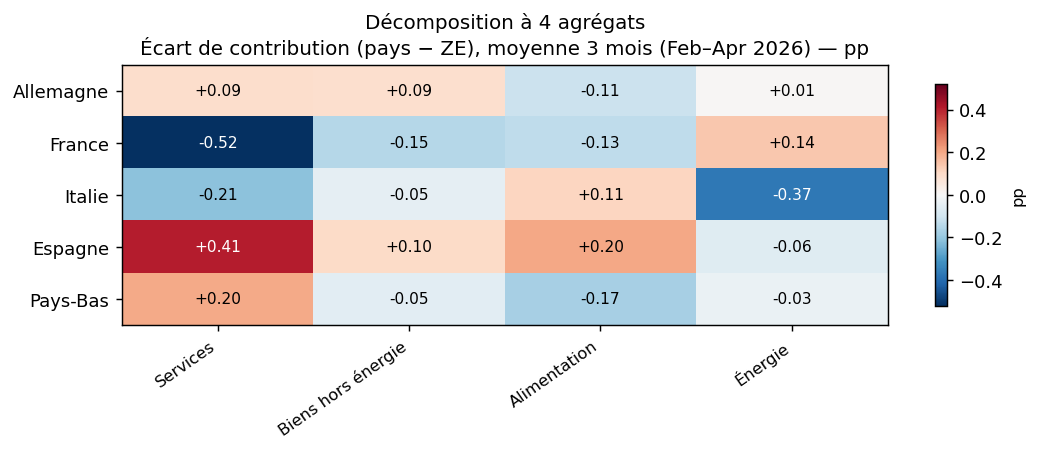
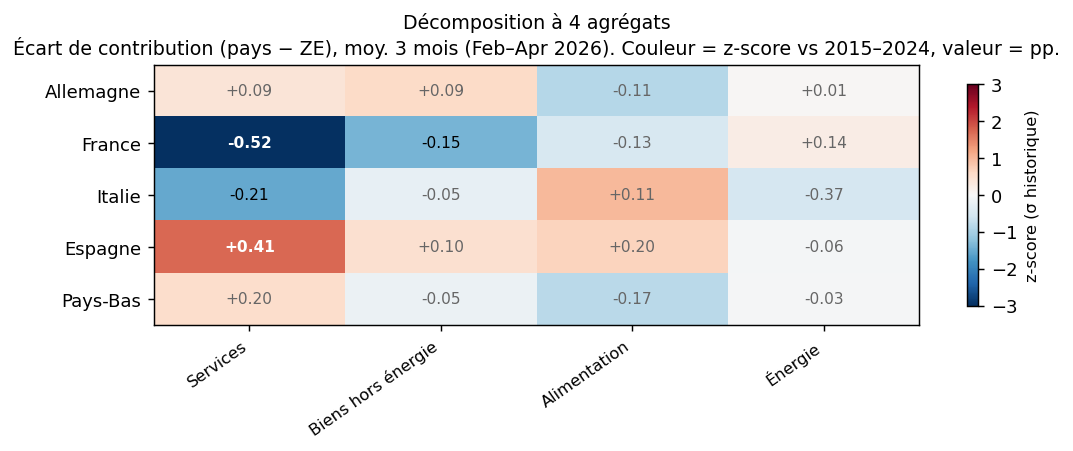
Add z-score coloring to heatmaps (vs 2015-2024 reference)

diff --git a/plot_country_vs_ea.py b/plot_country_vs_ea.py
@@ -79,47 +79,68 @@ def gap(geo: str, cols: list[str]) -> pd.DataFrame:
 # ============================================================
 # 1) HEATMAP au dernier point — 4 agrégats puis 13 divisions
 # ============================================================
+REF_START, REF_END = "2015-01-01", "2024-12-31"  # 10 ans, inclut volatilité COVID
+
+
 def make_heatmap(cols, labels_dict, title, outpath, figwidth, ma_months=3):
-    rows = []
+    """
+    Heatmap colorée par z-score (vs 2015-2019), annotée valeur brute en pp.
+    Cellules à |z|<1 : grisées (banal). |z|>2 : couleur saturée (inhabituel).
+    """
+    raw_rows, z_rows = [], []
     for g in GEOS_NON_EA:
-        gap_g = gap(g, cols).rolling(ma_months).mean().iloc[-1]
-        rows.append(gap_g.rename(g))
-    H = pd.DataFrame(rows)
-    H = H[cols]
+        gap_ts = gap(g, cols).rolling(ma_months).mean()
+        # Référence : écart-type historique du même écart pays-ZE
+        ref = gap_ts.loc[REF_START:REF_END]
+        sigma = ref.std()
+        current = gap_ts.iloc[-1]
+        z = current / sigma
+        raw_rows.append(current.rename(g))
+        z_rows.append(z.rename(g))
+    H = pd.DataFrame(raw_rows)[cols]
+    Z = pd.DataFrame(z_rows)[cols]
 
     fig, ax = plt.subplots(figsize=(figwidth, 3.6))
-    vmax = max(abs(H.values.min()), abs(H.values.max()))
-    im = ax.imshow(H.values, cmap="RdBu_r", vmin=-vmax, vmax=vmax, aspect="auto")
+    vmax = max(3.0, min(6.0, np.nanpercentile(np.abs(Z.values), 95)))
+    im = ax.imshow(Z.values, cmap="RdBu_r", vmin=-vmax, vmax=vmax, aspect="auto")
     ax.set_xticks(range(len(cols)))
     ax.set_xticklabels([labels_dict[c] for c in cols], rotation=35, ha="right", fontsize=9)
     ax.set_yticks(range(len(GEOS_NON_EA)))
     ax.set_yticklabels([NAMES[g] for g in GEOS_NON_EA], fontsize=10)
 
-    for i in range(H.shape[0]):
-        for j in range(H.shape[1]):
-            v = H.values[i, j]
-            color = "white" if abs(v) > vmax * 0.55 else "black"
-            ax.text(j, i, f"{v:+.2f}", ha="center", va="center",
-                    color=color, fontsize=8.5)
+    for i in range(Z.shape[0]):
+        for j in range(Z.shape[1]):
+            v_raw = H.values[i, j]
+            v_z = Z.values[i, j]
+            if abs(v_z) < 1:
+                color, weight = "#666", "normal"
+            elif abs(v_z) > vmax * 0.55:
+                color, weight = "white", "bold"
+            else:
+                color, weight = "black", "bold" if abs(v_z) > 2 else "normal"
+            ax.text(j, i, f"{v_raw:+.2f}", ha="center", va="center",
+                    color=color, fontsize=8.5, weight=weight)
 
     end = ribe("EA", cols).index[-1]
     start = end - pd.DateOffset(months=ma_months - 1)
     period = f"{start.strftime('%b')}–{end.strftime('%b %Y')}"
-    ax.set_title(f"{title}\nÉcart de contribution (pays − ZE), moyenne {ma_months} mois ({period}) — pp",
-                 fontsize=11)
+    ax.set_title(
+        f"{title}\nÉcart de contribution (pays − ZE), moy. {ma_months} mois ({period}). "
+        f"Couleur = z-score vs {REF_START[:4]}–{REF_END[:4]}, valeur = pp.",
+        fontsize=10.5)
     cbar = plt.colorbar(im, ax=ax, shrink=0.85)
-    cbar.set_label("pp", fontsize=9)
+    cbar.set_label("z-score (σ historique)", fontsize=9)
     fig.tight_layout()
     fig.savefig(outpath, dpi=130, bbox_inches="tight")
     plt.close(fig)
-    print(f"OK → {outpath}")
-    return H
+    print(f"OK → {outpath}  (vmax z = {vmax:.1f}σ)")
+    return H, Z
 
 
-H4 = make_heatmap(AGG4, AGG4_LBL, "Décomposition à 4 agrégats",
-                  ROOT / "data" / "heatmap_gap_4agg.png", 8.5)
-H13 = make_heatmap(DIV13, DIV13_LBL, "Décomposition à 13 divisions COICOP",
-                   ROOT / "data" / "heatmap_gap_13div.png", 13)
+H4, Z4 = make_heatmap(AGG4, AGG4_LBL, "Décomposition à 4 agrégats",
+                      ROOT / "data" / "heatmap_gap_4agg.png", 8.5)
+H13, Z13 = make_heatmap(DIV13, DIV13_LBL, "Décomposition à 13 divisions COICOP",
+                        ROOT / "data" / "heatmap_gap_13div.png", 13)
 
 # ============================================================
 # 2) STACKED BAR de l'écart, mensuel 2023+
@@ -175,8 +196,9 @@ plt.close(fig)
 print(f"OK → {out}")
 
 # Top 3 du dernier point par pays — résumé console
-print("\n=== Top 3 écarts (pp, dernier point) — décompo 4 agrégats ===")
+print(f"\n=== Top 3 écarts les + INHABITUELS (z-score vs {REF_START[:4]}-{REF_END[:4]}) — 13 div ===")
 for g in GEOS_NON_EA:
-    row = H4.loc[g].sort_values(key=abs, ascending=False)
-    parts = [f"{AGG4_LBL[c]} {v:+.2f}" for c, v in row.items()]
-    print(f"  {NAMES[g]:10s}: " + " | ".join(parts[:3]) + f"   (écart YoY total: {row.sum():+.2f})")
+    z_row = Z13.loc[g].sort_values(key=abs, ascending=False)
+    parts = [f"{DIV13_LBL[c]} (z={z_row[c]:+.1f}σ, {H13.loc[g,c]:+.2f} pp)"
+             for c in z_row.index[:3]]
+    print(f"  {NAMES[g]:10s}: " + " | ".join(parts))
